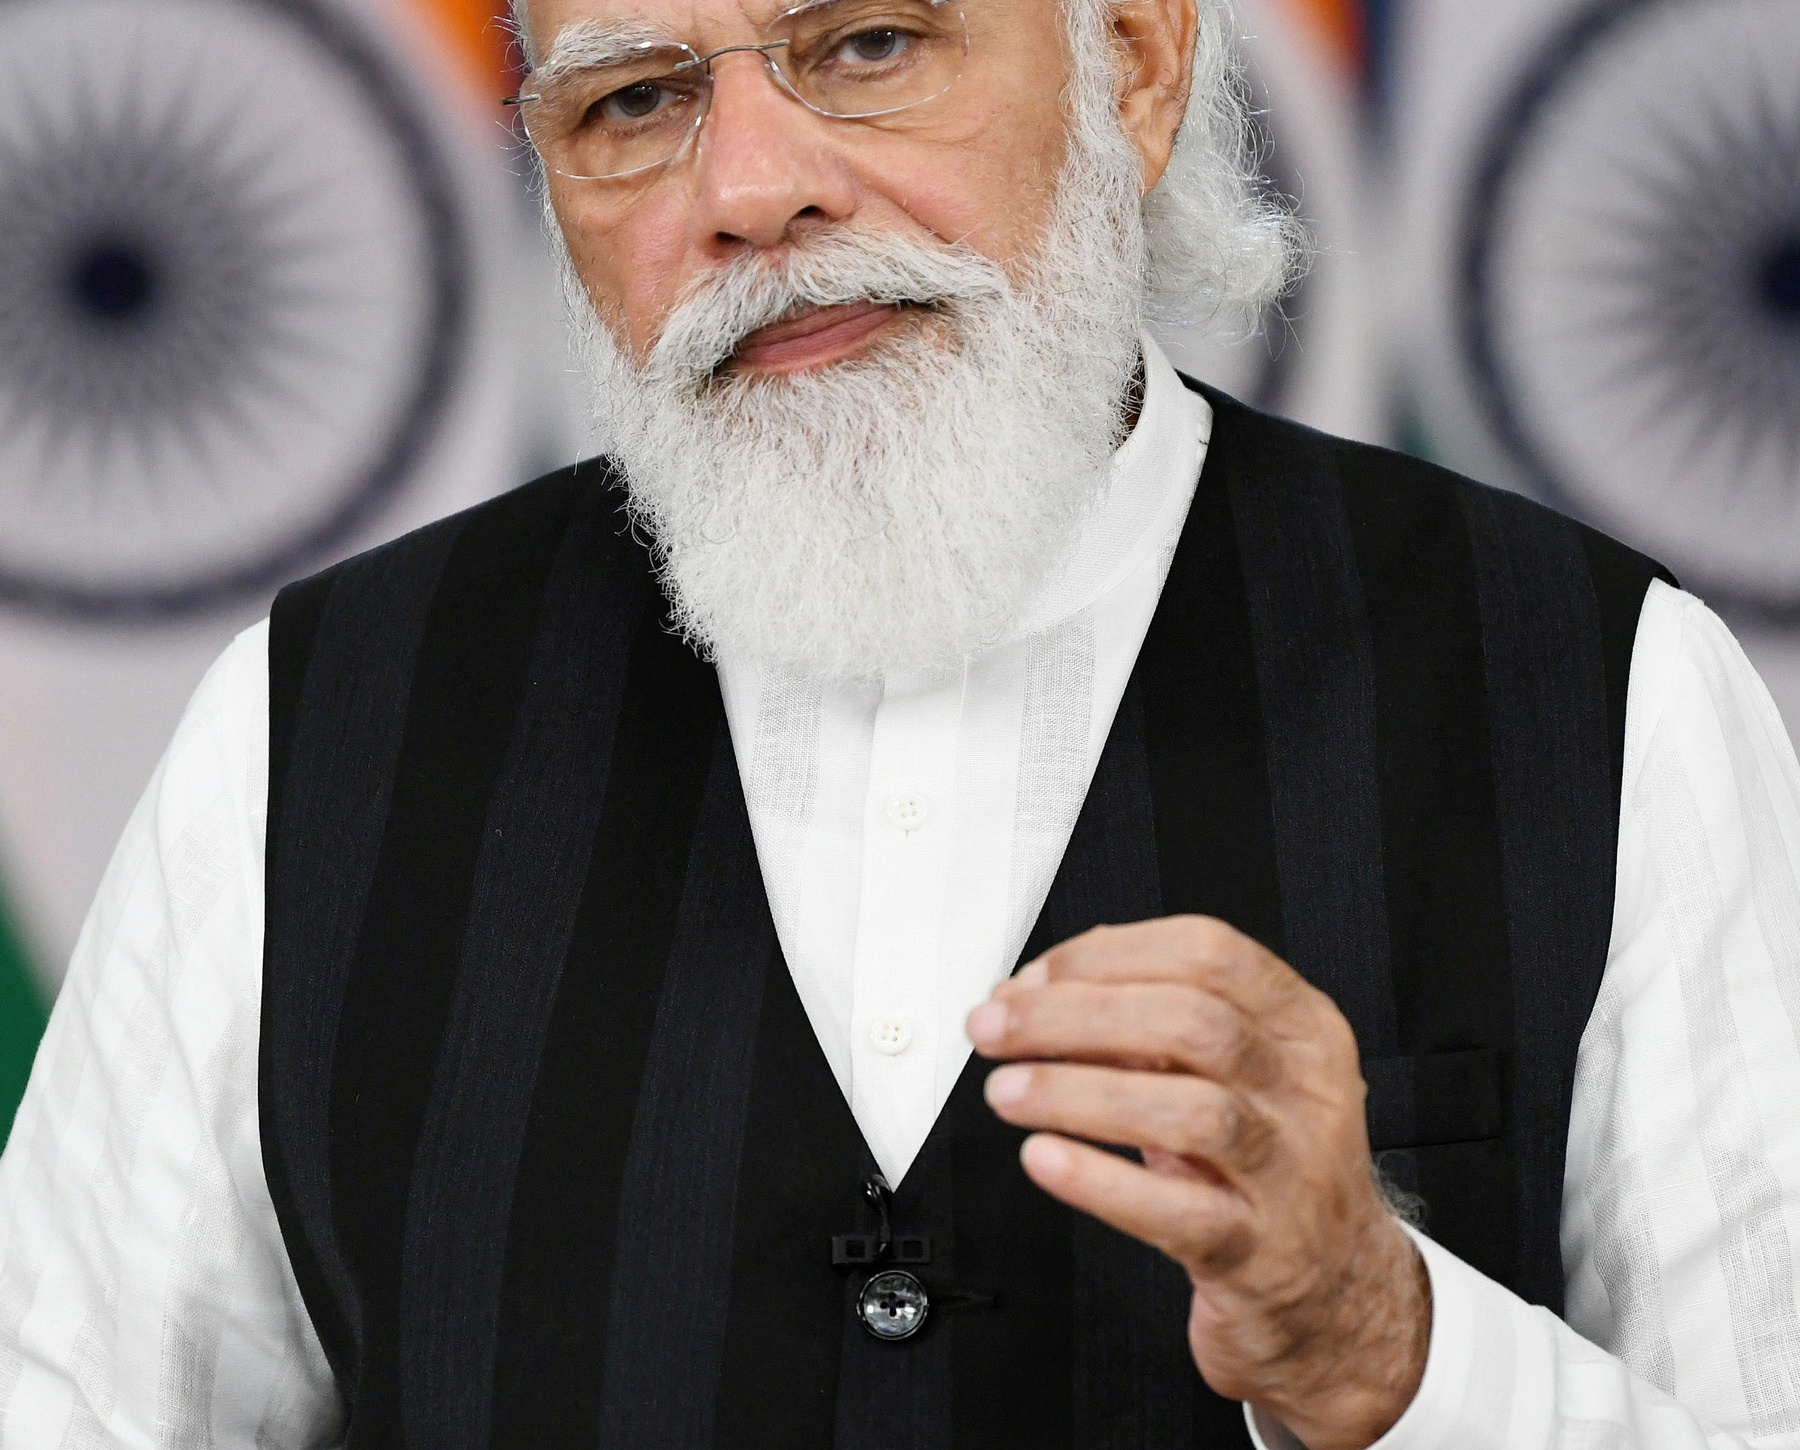
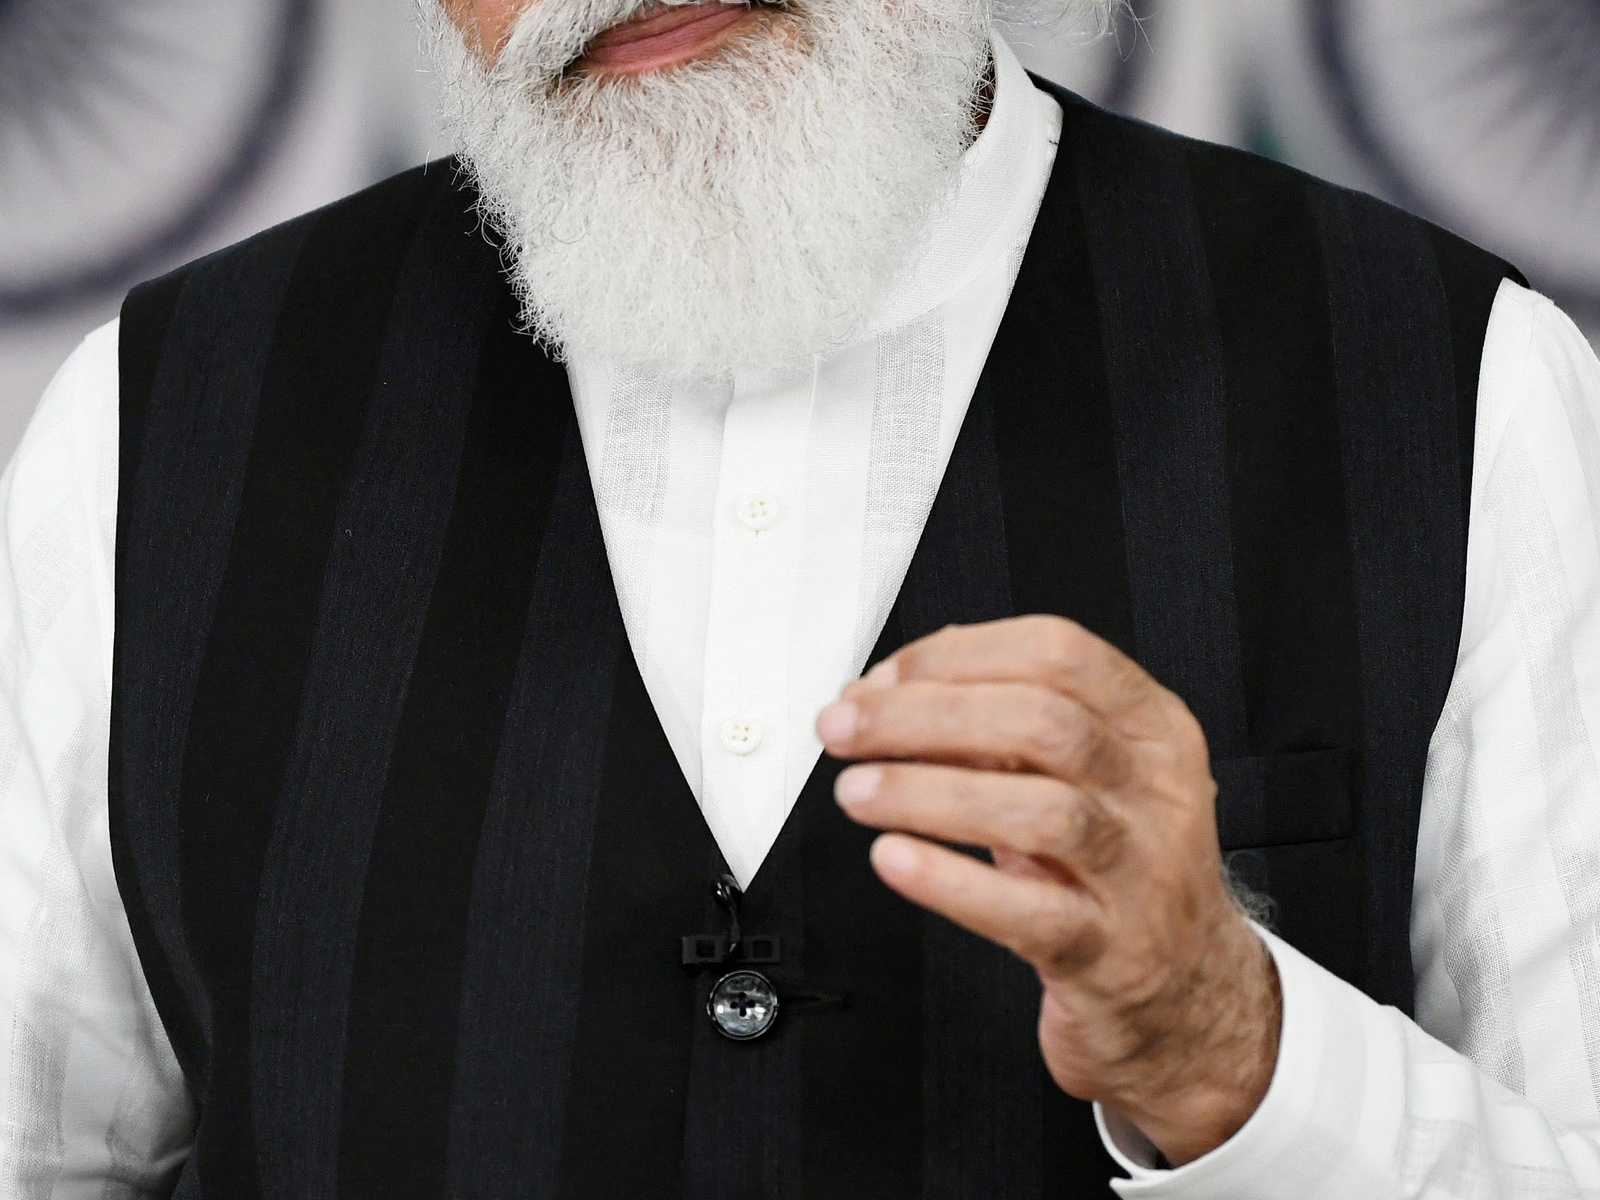
fix(ui): exact 4:3 aspect ratio portrait for Modi photo

diff --git a/frontend/src/components/public/PublicPortalPage.tsx b/frontend/src/components/public/PublicPortalPage.tsx
@@ -78,7 +78,7 @@ export const PublicPortalPage: React.FC<PublicPortalPageProps> = ({
             {/* Right: Public Health Photograph & Small Factual Caption */}
             <div className="lg:col-span-5">
               <div className="bg-white border border-[#D6D6D6] rounded-[2px] overflow-hidden">
-                <div className="h-72 sm:h-80 w-full overflow-hidden bg-[#E9EEF3]">
+                <div className="aspect-[4/3] w-full overflow-hidden bg-[#E9EEF3]">
                   <img
                     src={modiHeroImage}
                     alt="Shri Narendra Modi at a public health event"
